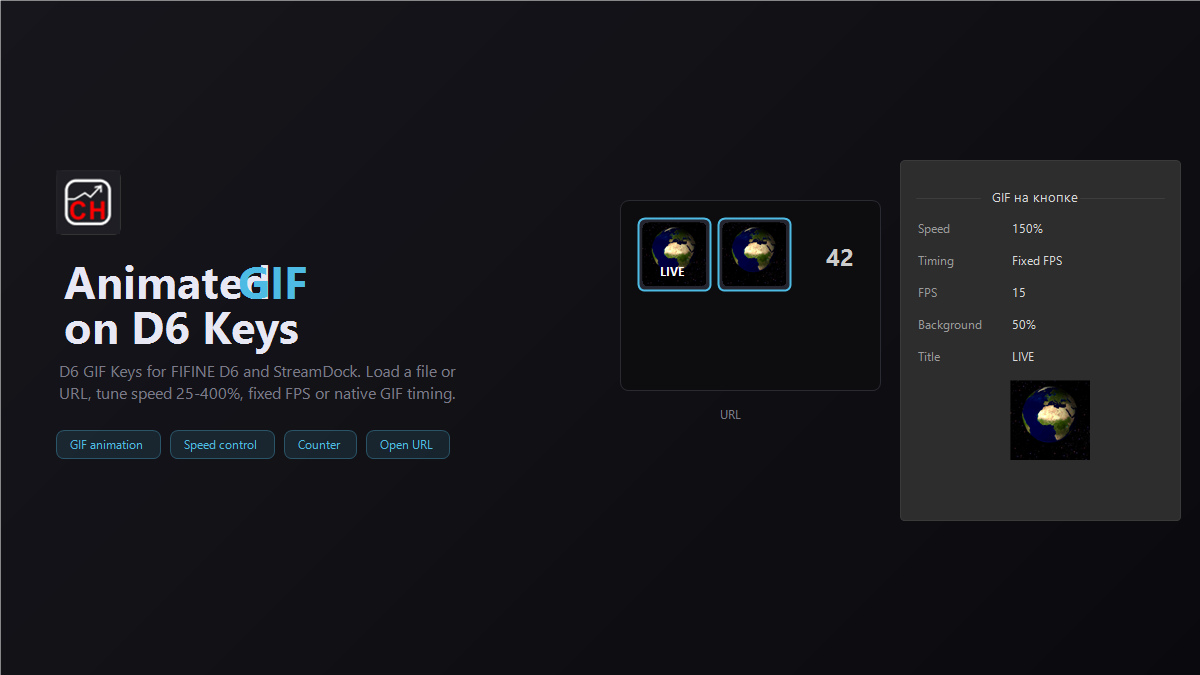
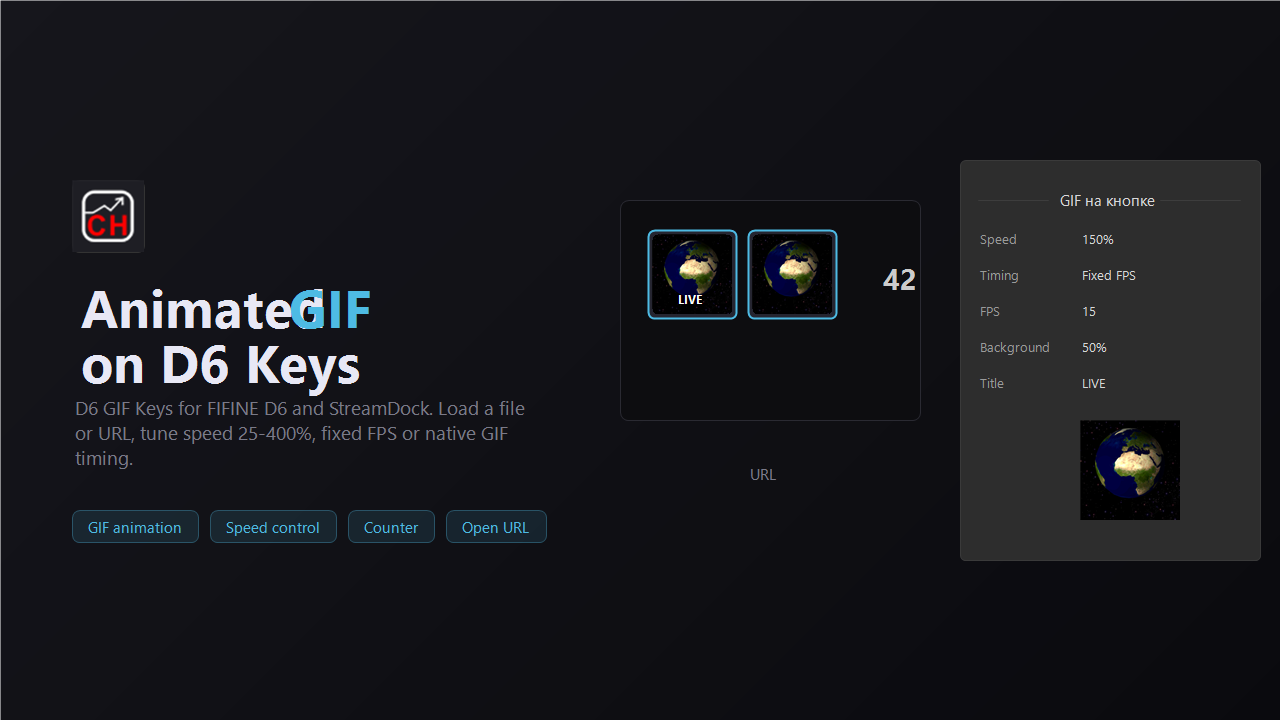
fix: скриншоты магазина в формате 16:9 (1280x720)

diff --git a/screenshots/README.md b/screenshots/README.md
@@ -1,12 +1,12 @@
 # Скриншоты для Space Platform
 
-Готовые PNG в папке **`output/`**:
+Готовые PNG в папке **`output/`** — формат **16:9**, разрешение **1280×720**.
 
-| Файл | Назначение | Размер |
-|------|------------|--------|
-| `01-settings-panel.png` | Панель настроек GIF-кнопки (RU) | 420×680 |
-| `02-d6-keys.png` | Клавиши D6 с GIF и счётчиком | 520×400 |
-| `03-store-hero.png` | Обложка для карточки магазина (EN) | 1200×675 |
+| Файл | Назначение |
+|------|------------|
+| `01-settings-panel.png` | Панель настроек GIF-кнопки (RU) |
+| `02-d6-keys.png` | Клавиши D6 с GIF и счётчиком |
+| `03-store-hero.png` | Обложка для карточки магазина (EN) |
 
 ## Пересоздать
 

diff --git a/STORE.md b/STORE.md
@@ -36,7 +36,7 @@ dist/com.rkfsociety.d6gifkeys.sdPlugin.zip
 - [x] Локализация: `en.json`, `ru.json`, `zh_CN.json`
 - [x] Лицензия MIT (`LICENSE`) и сторонние библиотеки (`THIRD_PARTY_NOTICES.md`)
 - [ ] Протестировать zip: распаковать в `%APPDATA%\HotSpot\StreamDock\plugins\`, перезапустить Fifine
-- [x] Скриншоты: `screenshots/output/` (см. [screenshots/README.md](screenshots/README.md))
+- [x] Скриншоты **16:9 (1280×720)**: `screenshots/output/` (см. [screenshots/README.md](screenshots/README.md))
 - [ ] Заполнить описание на Space Platform (тексты ниже)
 
 ## Тексты для карточки магазина